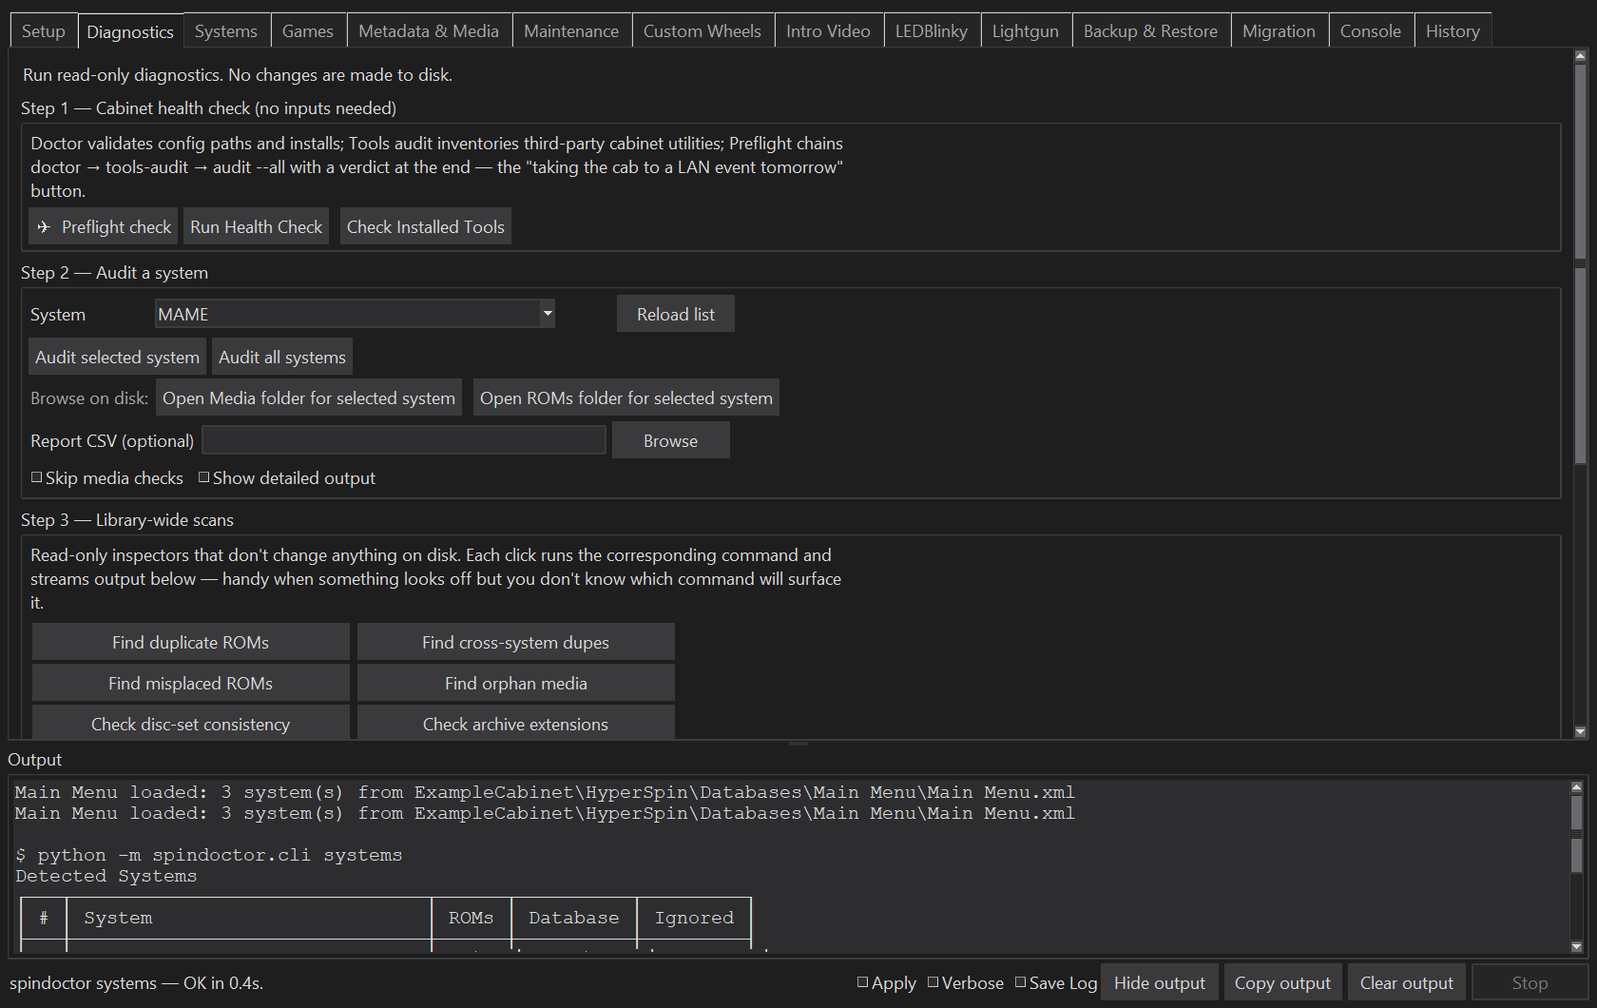
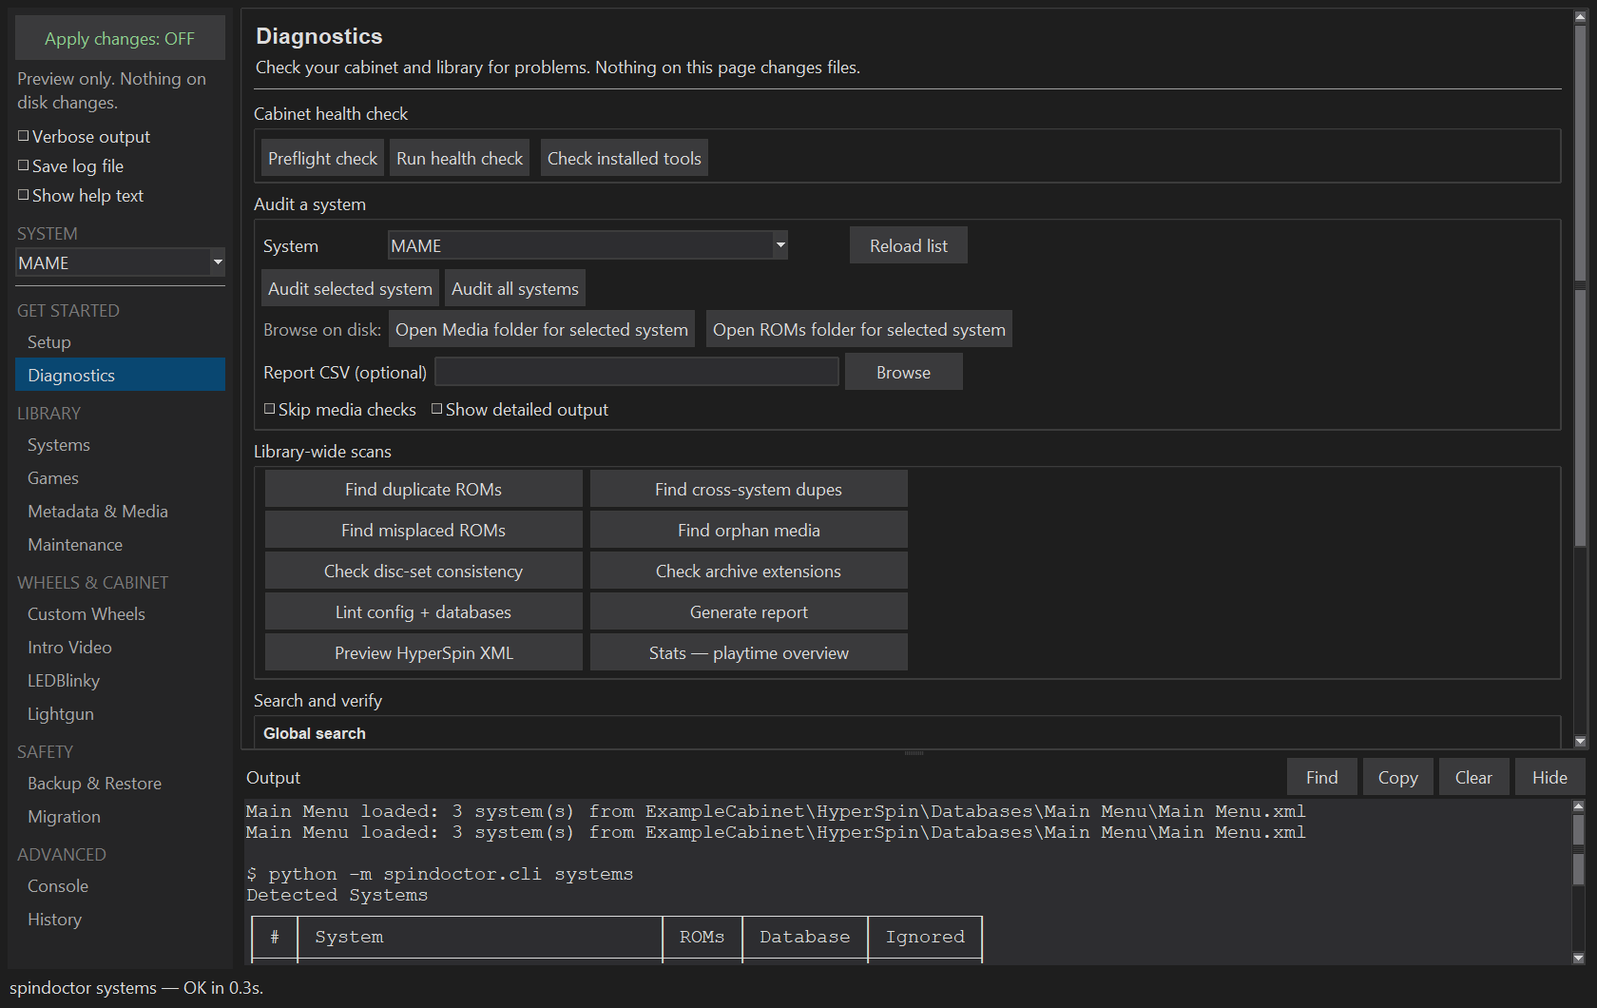
feat(gui): move output buttons into the Output panel, show Stop only while running
The Output panel gets a header row with Find, Copy, Clear and Hide, so
they hide with the panel they act on. The status bar's right side is now
a fixed grid: update Download, busy bar, Stop, Show output. Stop and the
busy bar appear only while a command runs; Show output appears only while
the panel is hidden. The update Download button no longer packs relative
to Stop, which would fail now that Stop is hidden while idle.

diff --git a/spindoctor/gui.py b/spindoctor/gui.py
@@ -1900,11 +1900,15 @@ class _SpinDoctorGUI:
         finally:
             self._output_visible = bool(visible)
 
-        # Update the status-bar button label + View menu checkbox so all
-        # three entry points stay in lockstep.
+        # The status-bar "Show output" button only exists while the panel
+        # is hidden; keep it and the View menu checkbox in lockstep.
         btn = getattr(self, "_output_toggle_btn", None)
         if btn is not None:
-            btn.configure(text="Hide output" if visible else "Show output")
+            if visible:
+                btn.grid_remove()
+                self._shrink_status_right()
+            else:
+                btn.grid(row=0, column=3, padx=(6, 0))
         var = getattr(self, "_output_visible_var", None)
         if var is not None:
             var.set(bool(visible))
@@ -2414,8 +2418,26 @@ class _SpinDoctorGUI:
         # self._append_output during construction; if self._output
         # doesn't exist yet, that raises AttributeError and the GUI
         # never paints. See also the matching note at _append_output.
-        out_frame = self.ttk.LabelFrame(main_paned, text="Output")
+        out_frame = self.ttk.Frame(main_paned)
         self._out_frame = out_frame
+
+        # Header row: title on the left, the buttons that act on the
+        # panel on the right. They live here rather than in the status
+        # bar so they hide along with the panel they act on.
+        out_header = self.ttk.Frame(out_frame)
+        out_header.pack(fill="x", padx=4, pady=(2, 0))
+        self._out_header = out_header
+        # Plain label, matching the section-frame titles on every page.
+        self.ttk.Label(out_header, text="Output").pack(side="left")
+        for text, command in (
+            ("Hide", lambda: self._toggle_output(visible=False)),
+            ("Clear", self._clear_output),
+            ("Copy", self._copy_output),
+            ("Find", self._find_open),
+        ):
+            self.ttk.Button(
+                out_header, text=text, command=command, width=6,
+            ).pack(side="right", padx=(6, 0))
 
         # Find bar — hidden by default; toggled via Ctrl+F / Cmd+F.
         # Lives ABOVE the ScrolledText so showing it doesn't shrink the
@@ -2541,38 +2563,32 @@ class _SpinDoctorGUI:
             bar, textvariable=self._status_var, anchor="w", width=1,
         )
         self._status_label.pack(side="left", fill="x", expand=True)
-        # Indeterminate progress bar sits between the status text and
-        # the Stop button. Hidden by default; _run_cli starts it and
-        # _on_proc_done stops it. Without this the only visual cue that
-        # a long migrate/audit is doing work is the streaming Output
-        # panel — a hung process and a quiet one are indistinguishable.
+        # Right-hand controls sit in fixed grid columns so their order
+        # never depends on when each one was shown:
+        #   0 update Download (lazy)  1 busy bar  2 Stop  3 Show output
+        # Each is gridded only while it applies, and grid_remove() keeps
+        # its slot so showing it again needs no re-layout bookkeeping.
+        right = self.ttk.Frame(bar)
+        right.pack(side="right")
+        self._status_right = right
+        # Progress bar + Stop appear only while a command runs
+        # (_set_busy). Without the bar the only cue that a long
+        # migrate/audit is working is the streaming Output panel — a
+        # hung process and a quiet one are indistinguishable.
         self._busy_bar = self.ttk.Progressbar(
-            bar, mode="indeterminate", length=120,
+            right, mode="indeterminate", length=120,
         )
-        # _busy_bar is packed lazily by _set_busy(True) so the slot
-        # doesn't take up status-bar width while idle.
         self._stop_btn = self.ttk.Button(
-            bar, text="Stop", command=self._stop_running, state="disabled"
+            right, text="Stop", command=self._stop_running, state="disabled"
         )
-        self._stop_btn.pack(side="right")
-        self.ttk.Button(bar, text="Clear output", command=self._clear_output).pack(
-            side="right", padx=(0, 6)
-        )
-        # Copy-to-clipboard mirrors the Logs tab's copy pattern. Lives
-        # next to Clear so long audit / migrate output can be grabbed
-        # without scrolling-and-selecting.
-        self.ttk.Button(
-            bar, text="Copy output", command=self._copy_output,
-        ).pack(side="right", padx=(0, 6))
-        # Hide / Show output toggle — sits at the left of the cluster so
-        # muscle-memory positions of Copy/Clear/Stop don't shift when
-        # cabinet owners reach for the familiar buttons.
+        # Shown only while the Output panel is hidden; when it's visible
+        # its own header has a Hide button.
         self._output_toggle_btn = self.ttk.Button(
-            bar,
-            text=("Hide output" if self._output_visible else "Show output"),
-            command=self._toggle_output,
+            right, text="Show output",
+            command=lambda: self._toggle_output(visible=True),
         )
-        self._output_toggle_btn.pack(side="right", padx=(0, 6))
+        if not self._output_visible:
+            self._output_toggle_btn.grid(row=0, column=3, padx=(6, 0))
 
         # Apply / Verbose / Save Log are shared by every page and live at
         # the top of the sidebar.
@@ -3430,15 +3446,13 @@ class _SpinDoctorGUI:
             except Exception:  # noqa: BLE001 - widget race during teardown
                 pass
         btn = self.ttk.Button(
-            self._status_bar_frame
-            if hasattr(self, "_status_bar_frame")
-            else self._stop_btn.master,
+            self._status_right,
             text="Download",
             command=lambda u=url: self._open_url(u),
         )
-        # Sit immediately to the left of Stop so it's the first thing
-        # the user's eye lands on when checking the bottom bar.
-        btn.pack(side="right", padx=(0, 6), before=self._stop_btn)
+        # Leftmost slot of the right-hand cluster, so it's the first
+        # thing the eye lands on when checking the bottom bar.
+        btn.grid(row=0, column=0, padx=(6, 0))
         self._update_download_btn = btn
 
     def _manual_update_check(self) -> None:
@@ -13599,8 +13613,20 @@ class _SpinDoctorGUI:
         # 50 ms drain to deliver the DoneMarker.
         self._stop_btn.configure(state="disabled")
 
+    def _shrink_status_right(self) -> None:
+        """Let the status bar's right cluster shrink after hiding a widget.
+
+        Tk keeps a grid master at its old size once its last slave is
+        removed, which would leave a blank gap where Stop used to be.
+        Resetting the frame's own size fixes that; with slaves still
+        gridded, propagation overrides it, so it's always safe to call.
+        """
+        right = getattr(self, "_status_right", None)
+        if right is not None:
+            right.configure(width=1, height=1)
+
     def _set_busy(self, busy: bool) -> None:
-        """Show / hide the progress bar in the status bar.
+        """Show / hide the progress bar and Stop button in the status bar.
 
         Called by ``_run_cli`` when a subprocess is launched and by
         ``_on_proc_done`` when it exits. Defaults to the indeterminate
@@ -13609,16 +13635,23 @@ class _SpinDoctorGUI:
         switches to a determinate bar so the user can see "step 2 of 3"
         progress visually, not just in the status text.
 
+        Chained workflows start their next step from the done callback,
+        before the previous step's teardown, so this stays True between
+        steps and Stop doesn't flicker.
+
         Failures are swallowed because Tk widgets can race with window
         destruction during shutdown.
         """
         bar = getattr(self, "_busy_bar", None)
         if bar is None:
             return
+        stop = getattr(self, "_stop_btn", None)
         try:
             if busy:
                 chain = getattr(self, "_chain_progress", None)
-                bar.pack(side="right", padx=(0, 6))
+                bar.grid(row=0, column=1, padx=(6, 0))
+                if stop is not None:
+                    stop.grid(row=0, column=2, padx=(6, 0))
                 if chain is not None:
                     step, total = chain
                     # Determinate fill: the bar advances at the *start*
@@ -13634,7 +13667,10 @@ class _SpinDoctorGUI:
                     bar.start(80)
             else:
                 bar.stop()
-                bar.pack_forget()
+                bar.grid_remove()
+                if stop is not None:
+                    stop.grid_remove()
+                self._shrink_status_right()
         except Exception:  # noqa: BLE001 - widget race during teardown
             pass
 

diff --git a/tests/test_gui.py b/tests/test_gui.py
@@ -1040,15 +1040,16 @@ def test_gui_constructs_against_real_tk():
         assert abs(app._ui_scale - 1.25) < 1e-6
         app._set_ui_scale(1.0)
 
-        # Output pane toggle must flip both ways and update the button
-        # label so the status-bar control stays in sync.
+        # Output pane toggle must flip both ways; the status-bar
+        # "Show output" button exists only while the panel is hidden.
         assert app._output_visible is True
+        assert app._output_toggle_btn.winfo_manager() == ""
         app._toggle_output(False)
         assert app._output_visible is False
-        assert app._output_toggle_btn.cget("text") == "Show output"
+        assert app._output_toggle_btn.winfo_manager() == "grid"
         app._toggle_output(True)
         assert app._output_visible is True
-        assert app._output_toggle_btn.cget("text") == "Hide output"
+        assert app._output_toggle_btn.winfo_manager() == ""
 
         # Eyeball toggle: flipping must clear and restore show="*".
         # The setup tab builds the credential entries lazily, but the
@@ -2692,6 +2693,70 @@ def test_sidebar_apply_switch_is_loud_and_drives_global_apply(monkeypatch):
             if w.winfo_class() == "TCheckbutton"
         }
         assert bar_texts == set()
+    finally:
+        app.root.destroy()
+
+
+def test_output_header_holds_panel_buttons(monkeypatch):
+    app, _tk = _build_gui_for_test(monkeypatch)
+    try:
+        header_texts = [
+            w.cget("text") for w in app._out_header.winfo_children()
+            if w.winfo_class() == "TButton"
+        ]
+        assert sorted(header_texts) == ["Clear", "Copy", "Find", "Hide"]
+        # None of the panel's buttons are left in the status bar.
+        status_texts = {
+            w.cget("text")
+            for w in app._status_right.winfo_children()
+            if w.winfo_manager()
+        }
+        assert status_texts == set()
+
+        hide = next(
+            w for w in app._out_header.winfo_children()
+            if w.winfo_class() == "TButton" and w.cget("text") == "Hide"
+        )
+        hide.invoke()
+        assert app._output_visible is False
+        app._output_toggle_btn.invoke()
+        assert app._output_visible is True
+    finally:
+        app.root.destroy()
+
+
+def test_stop_shows_beside_busy_bar_only_while_running(monkeypatch):
+    app, _tk = _build_gui_for_test(monkeypatch)
+    try:
+        assert app._stop_btn.winfo_manager() == ""
+        assert app._busy_bar.winfo_manager() == ""
+        app._set_busy(True)
+        assert app._stop_btn.winfo_manager() == "grid"
+        assert app._busy_bar.winfo_manager() == "grid"
+        # Busy bar sits directly left of Stop.
+        assert (
+            int(app._busy_bar.grid_info()["column"]) + 1
+            == int(app._stop_btn.grid_info()["column"])
+        )
+        app._set_busy(False)
+        assert app._stop_btn.winfo_manager() == ""
+        assert app._busy_bar.winfo_manager() == ""
+        # The emptied cluster shrinks instead of leaving a blank gap.
+        app.root.update_idletasks()
+        assert app._status_right.winfo_reqwidth() <= 1
+    finally:
+        app.root.destroy()
+
+
+def test_update_download_button_works_while_stop_is_hidden(monkeypatch):
+    app, _tk = _build_gui_for_test(monkeypatch)
+    try:
+        assert app._stop_btn.winfo_manager() == ""
+        app._show_update_download_button("https://example.invalid/release")
+        btn = app._update_download_btn
+        assert btn.winfo_manager() == "grid"
+        # Leftmost slot, ahead of the busy bar and Stop when they show.
+        assert int(btn.grid_info()["column"]) == 0
     finally:
         app.root.destroy()
 

diff --git a/docs/gui.md b/docs/gui.md
@@ -47,11 +47,11 @@ Existing installs and re-runs use the same dialog. There is no auto-open behavio
 
 ## Layout primer
 
-A single window with a grouped page list in a sidebar on the left, a shared **Output** panel along the bottom (resizable via a draggable sash), and a status bar at the very bottom showing the current command, Stop, and the output buttons. Every page scrolls vertically with an always-visible scrollbar so cabinet owners on 1024×768 / 1280×720 displays can still reach widgets that overflow.
+A single window with a grouped page list in a sidebar on the left, a shared **Output** panel along the bottom (resizable via a draggable sash), and a status bar at the very bottom. The Output panel's header row holds **Find**, **Copy**, **Clear** and **Hide**. The status bar shows the current command and, while a command runs, a progress bar with **Stop** beside it. While the Output panel is hidden, a **Show output** button appears in the status bar. Every page scrolls vertically with an always-visible scrollbar so cabinet owners on 1024×768 / 1280×720 displays can still reach widgets that overflow.
 
 The sidebar groups the pages as **Get started** (Setup, Diagnostics), **Library** (Systems, Games, Metadata & Media, Maintenance), **Wheels & cabinet** (Custom Wheels, Intro Video, LEDBlinky, Lightgun), **Safety** (Backup & Restore, Migration) and **Advanced** (Console, History). Ctrl+1 to Ctrl+9 jump to the first nine pages in that order.
 
-The status bar text is automatically truncated when a command string is too long to fit; the right-side buttons are always visible regardless of command length.
+The status bar text is automatically truncated when a command string is too long to fit; the progress bar, Stop and Show output stay visible regardless of command length.
 
 ### Apply changes, Verbose output, and Save log file
 
@@ -406,7 +406,7 @@ A `File` / `View` / `Help` menubar runs across the top of the window:
 - **File → Open HyperSpin folder** / **Open ROMs folder** — same, for the paths set in `config.json`.
 - **File → View logs & manifests** — opens a Toplevel listing every per-run JSON manifest under `~/.spindoctor/{migrations,curation,edits,renames,media_imports,themes,misplaced}/` with a tree on the left and a read-only JSON viewer on the right. Three buttons at the bottom: **Undo this run** (runs the matching `--undo` for the selected manifest), **Show diff** (renders changes as a before/after table), **Revert just \<SYSTEM\>** (theme swaps only — one-system revert via `--revert-system`).
 - **File → Browse HyperSpin themes** — opens a Toplevel inventorying every overlay file under `Media/Frontend/Images/` and per-system `Media/<system>/Images/{Special A,Special B}/`.
-- **View → Show output pane** — checkbutton (also bound to `Ctrl+`` ` ``) that collapses or restores the bottom Output panel. State persists across restarts via the `output_visible` config key.
+- **View → Show output pane** — checkbutton (also bound to `Ctrl+`` ` ``) that collapses or restores the bottom Output panel, as do the panel's **Hide** button and the status bar's **Show output** button. State persists across restarts via the `output_visible` config key.
 - **View → UI scale** — radio submenu with presets `0.8×` / `0.9×` / `1.0×` / `1.1×` / `1.25×` / `1.5×`. `Ctrl++` / `Ctrl+-` step by 0.1; `Ctrl+0` resets. Persisted via the `ui_scale` config key.
 - **Help → About SpinDoctor** — version, description, and links to GitHub project / latest release / CHANGELOG. Shows the app icon next to the title when the bundled PNG icon is available.
 - **Help → Keyboard shortcuts** — opens an in-app reference for the shortcut map listed below.
@@ -430,7 +430,7 @@ The same table is reachable in-app via **Help → Keyboard shortcuts**.
 
 ## Find bar
 
-Press `Ctrl+F` (`Cmd+F` on macOS) to open a slim search bar above the Output panel. Type to highlight every case-insensitive match in the buffer; **Next** / `Enter` jumps to the next match, **Prev** / `Shift+Enter` to the previous, `Esc` closes the bar. A match count ("3 of 17") shows next to the controls. Selected text pre-seeds the search field on open. The global binding works regardless of current focus — useful for scanning long audit / migrate output for a game name.
+Press `Ctrl+F` (`Cmd+F` on macOS), or click **Find** in the Output panel's header, to open a slim search bar above the Output panel. Type to highlight every case-insensitive match in the buffer; **Next** / `Enter` jumps to the next match, **Prev** / `Shift+Enter` to the previous, `Esc` closes the bar. A match count ("3 of 17") shows next to the controls. Selected text pre-seeds the search field on open. The global binding works regardless of current focus — useful for scanning long audit / migrate output for a game name.
 
 ## System quick-filter
 
@@ -495,7 +495,7 @@ Every `Entry` / `Text` / `ScrolledText` widget in the GUI — Setup paths, scrap
 
 ## Stopping a long-running command
 
-The **Stop** button in the bottom-right of the window terminates the current subprocess (sends `SIGTERM` / Windows `TerminateProcess`). The GUI re-enables the Run buttons once the child exits.
+The **Stop** button, next to the progress bar at the bottom of the window and shown while a command runs, terminates the current subprocess (sends `SIGTERM` / Windows `TerminateProcess`). The GUI re-enables the Run buttons once the child exits.
 
 **Stop is not a rollback or a guarantee of a recovery manifest.** In particular,
 Windows `TerminateProcess` can prevent Python cleanup and interrupt handlers from

diff --git a/CHANGELOG.md b/CHANGELOG.md
@@ -16,6 +16,7 @@ The format follows [Keep a Changelog](https://keepachangelog.com/en/1.1.0/), and
 - **GUI pages move to a grouped sidebar.** The 14 tabs across the top are replaced by a page list on the left, grouped as Get started, Library, Wheels & cabinet, Safety and Advanced. Page order, Ctrl+1 to Ctrl+9 and the remembered last page are unchanged. **Apply**, **Verbose** and **Save Log** move from the bottom status bar to the top of the sidebar; Apply is now a large **Apply changes: OFF / ON** switch that turns orange while changes will be written.
 - **Plainer GUI labels.** Section titles no longer carry "Step N" numbers except in Migration and the first-run wizard, where the order matters. Buttons use sentence case, symbol prefixes (▶, ✈) and CLI flags (`--all-roms`, `--overwrite-pclauncher`, `--include-proto`) are gone from labels, and LEDBlinky's MAME buttons drop their 3a/3b/3c prefixes.
 - **One System picker for the whole GUI, and fewer repeated buttons.** A **System** dropdown in the sidebar selects that system in every section; section dropdowns can still pick a different one. The Games page uses it instead of its own picker. **Run Health Check** now lives only on Diagnostics (removed from Setup and Migration), Metadata & Media has one **Restore DB backup** button, LEDBlinky has one **Normalize Colors.ini** button (in the MAME section), and Migration's backup step links to the Backup & Restore page instead of repeating its controls.
+- **Output buttons move into the Output panel, and Stop shows only while a command runs.** The panel's header row now holds **Find** (same as Ctrl+F), **Copy**, **Clear** and **Hide**, so they hide along with the panel. The status bar keeps the command text and, while a command runs, the progress bar with **Stop** right beside it. While the Output panel is hidden, a **Show output** button takes its place in the status bar.
 - **Compact GUI help.** Every page starts with its title and a one-line summary. Longer explanations are hidden until you tick **Show help text** in the sidebar, which shows or hides all of them at once, and wrap to the window width instead of a fixed pixel width. Repetitive tips were removed and remaining text shortened. Delete, overwrite and always-writes warnings stay visible.
 
 ### Removed

diff --git a/docs/configuration.md b/docs/configuration.md
@@ -58,7 +58,7 @@ Settings that hold a mapping (`system_overrides`, `game_overrides`, `ignore_list
 | `demulshooter_path` | Explicit path to `DemulShooter.exe`, if auto-detection misses it or the cabinet has more than one. Used by `lightgun detect`, `audit` and `configure` |
 | `demulshooter_extra_args` | Default extra args appended to DemulShooter (default `-noresize`, Sinden-friendly) |
 | `ui_scale` | GUI font/widget scale multiplier (float, `0.6`–`2.0`, default `1.0`). Set from `View → UI scale` or `Ctrl++` / `Ctrl+-` / `Ctrl+0` in the GUI. Cabinet owners on 1280×720 typically want `0.9` to fit more on screen. |
-| `output_visible` | Whether the GUI's bottom Output panel is shown (bool, default `true`). Toggled from `View → Show output pane`, the status-bar button, or `Ctrl+`` ` ``. |
+| `output_visible` | Whether the GUI's bottom Output panel is shown (bool, default `true`). Toggled from `View → Show output pane`, the Output panel's **Hide** button, the status bar's **Show output** button, or `Ctrl+`` ` ``. |
 | `gui_window_geometry` | Last `WIDTHxHEIGHT+X+Y` the GUI window was at when it closed (string, default unset). Restored on the next launch so cabinet owners don't re-resize / re-position every session. Managed automatically — delete it to reset window state. Hand-corrupted values are revalidated against a regex and silently discarded. |
 | `gui_window_maximized` | Whether the GUI window was maximized when it closed (bool, default `false`). Restored on the next launch. Managed automatically — delete it to default to a normal window. |
 | `gui_last_active_tab` | Index of the tab that was open the last time the GUI closed (int, default unset). Restored on the next launch so users who live in a specific tab don't re-navigate from Setup every time. Managed automatically — delete it to default back to the Setup tab. On a true fresh install (no `config.json` yet), the GUI auto-focuses the Setup tab regardless. |

diff --git a/docs/troubleshooting.md b/docs/troubleshooting.md
@@ -1459,6 +1459,6 @@ See [GUI walkthrough → Menubar](gui.md#menubar) for the canonical list of File
 By default the window opens at 960×720 (minsize 720×540), which is fine on most 1080p / 1200p panels but tight on 720p with the Output panel mounted. Two new controls in the GUI fix this without resizing the window:
 
 - **`View → UI scale → 0.9×`** (or press `Ctrl+-` once) shrinks fonts and widget metrics across the board so a full tab fits without scrolling. `Ctrl++` zooms back in, `Ctrl+0` resets. The chosen scale persists across restarts via the `ui_scale` config key. Range is `0.6`–`2.0`.
-- **`Hide output`** (status-bar button, `View → Show output pane`, or `Ctrl+`` `) collapses the bottom panel and gives the active tab the full window height. Re-show with the same control. Persisted across restarts via the `output_visible` config key.
+- **`Hide`** (in the Output panel's header, or `View → Show output pane`, or `Ctrl+`` `) collapses the bottom panel and gives the active tab the full window height. Re-show it with the status bar's **Show output** button or the same menu item or shortcut. Persisted across restarts via the `output_visible` config key.
 
 The two together typically clear another 200–300 vertical pixels on a 720p cabinet display.
